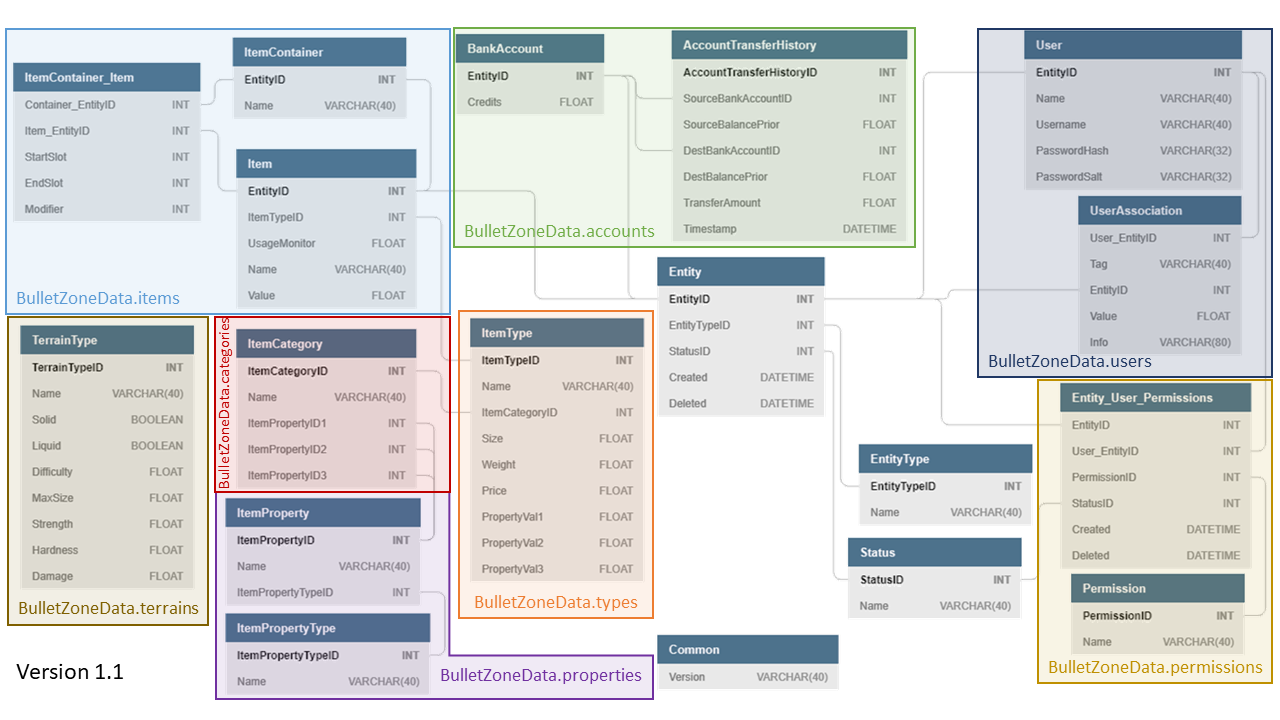
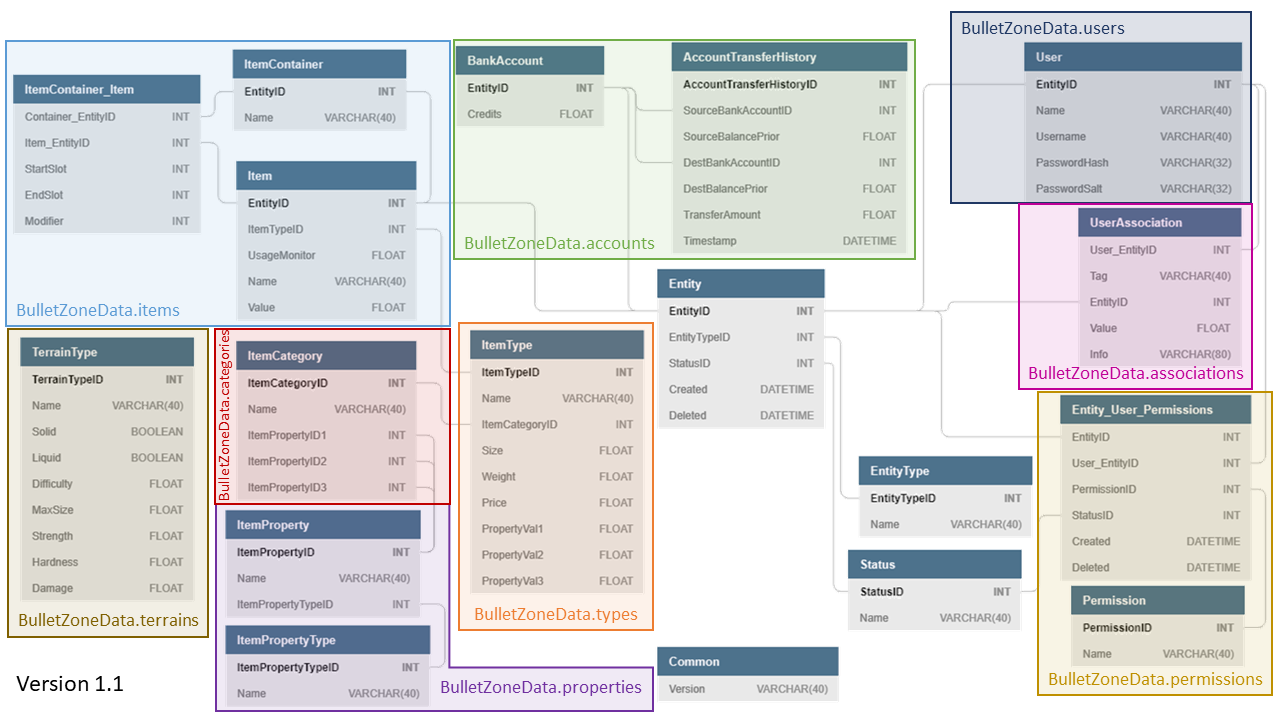
Renamed modifyAccountBalance in BankAccountRepository to modifyBalance, and updated Database_schema_w_repo_names.png to show BulletZoneData.associations

Changed region(s): [[0.0, 0.0, 1.0, 1.0], [0.0, 0.9167, 0.0938, 0.9778]]

diff --git a/server/src/test/java/edu/unh/cs/cs619/bulletzone/datalayer/BankAccountRepositoryTest.java b/server/src/test/java/edu/unh/cs/cs619/bulletzone/datalayer/BankAccountRepositoryTest.java
@@ -49,10 +49,10 @@ public class BankAccountRepositoryTest {
         double startAmount = basicAccount.getBalance();
         Collection<AccountTransferHistoryRecord> startList = db.accounts.getTransactions(basicAccount);
 
-        db.accounts.modifyAccountBalance(basicAccount, amount);
+        db.accounts.modifyBalance(basicAccount, amount);
         assertThat(basicAccount.getBalance(), is(startAmount + amount));
 
-        db.accounts.modifyAccountBalance(basicAccount, -amount);
+        db.accounts.modifyBalance(basicAccount, -amount);
         assertThat(basicAccount.getBalance(), is(startAmount));
         Collection<AccountTransferHistoryRecord> endList = db.accounts.getTransactions(basicAccount);
         assertThat(endList.size(), is(startList.size() + 2));
@@ -61,7 +61,7 @@ public class BankAccountRepositoryTest {
     @Test
     public void transfer_betweenAccountsWithEnough_isSuccessfulAndGeneratesHistoryForBothAccounts() {
         int start = 1000, amount = 700;
-        db.accounts.modifyAccountBalance(basicAccount, start);
+        db.accounts.modifyBalance(basicAccount, start);
         double basicAmount = basicAccount.getBalance();
         double otherAmount = otherAccount.getBalance();
         Collection<AccountTransferHistoryRecord> basicList = db.accounts.getTransactions(basicAccount);

diff --git a/server/src/main/java/edu/unh/cs/cs619/bulletzone/datalayer/account/BankAccountRepository.java b/server/src/main/java/edu/unh/cs/cs619/bulletzone/datalayer/account/BankAccountRepository.java
@@ -111,8 +111,8 @@ public class BankAccountRepository implements OwnableEntityRepository {
         return true;
     }
 
-    public boolean modifyAccountBalance(BankAccount account, double amount) {
-        return modifyAccountBalance(account.getId(), amount);
+    public boolean modifyBalance(BankAccount account, double amount) {
+        return modifyBalance(account.getId(), amount);
     }
 
     /**
@@ -123,7 +123,7 @@ public class BankAccountRepository implements OwnableEntityRepository {
      * @return true if successful, false otherwise (such as if the account has insufficient
      *         funds to add the (negative) amount).
      */
-    public boolean modifyAccountBalance(int accountID, double amount) {
+    public boolean modifyBalance(int accountID, double amount) {
         if (!accountMap.containsKey(accountID))
             return false;
 
